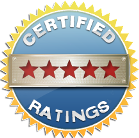
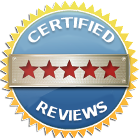
Minor updates

Changed region(s): [[0.1439, 0.087, 0.8345, 0.3478], [0.2014, 0.6957, 0.8058, 0.8986]]

diff --git a/css/style.css b/css/style.css
@@ -65,7 +65,6 @@ body {
     width: 100%;
     position: absolute;
     margin: 0;
-    z-index: 1;
     background: rgb(255, 255, 255) transparent;
     /* nice browsers */
     background: rgba(255, 255, 255, 0.8);
@@ -74,14 +73,39 @@ body {
     /* IE8 */
     -ms-filter: "progid:DXImageTransform.Microsoft.gradient(startColorstr=#CCFFFFFF, endColorstr=#CCFFFFFF)";
 }
+.navbar-collapse {
+    position: relative;
+}
+.navbar-icon {
+    position: absolute;
+    right: 24px;
+    top: 22px;
+    z-index: 4;
+}
 .navbar-nav {
     margin: 0 0 0;
+    position: absolute;
+    top: 58px;
+    right: 20px;
+    background: #FFF;
+    padding: 0 10px;
+    z-index: 3;
+    border: 1px solid #eee;
+    -moz-border-radius: 5px;
+    -webkit-border-radius: 5px;
+    border-radius: 5px; /* future proofing */
+    -khtml-border-radius: 5px; /* for old Konqueror browsers */
+    display: none;
 }
 .navbar-nav > li {
     text-align: center;
     width: 100%;
-    margin-bottom: 16px;
-    margin-top: 16px;
+    border-bottom: 1px solid #eee;
+    padding-bottom: 16px;
+    padding-top: 16px;
+}
+.navbar-nav > li:last-child{
+    border-bottom: none;
 }
 .navbar-nav > li > a {
     padding: 0;
@@ -196,12 +220,13 @@ body {
 
 .logo-container {
     background-color: #FFF;
-    padding: 10px 0px;
-    text-align: center;
+    padding: 10px 0px 10px 10px;
+    text-align: left;
 }
 
 .logo-container img{
-    width: 90%;
+    min-width: 122px;
+    width: 40%;
     max-width: 200px;
 }
 
@@ -268,14 +293,14 @@ body {
     background: #FFF;
 }
 .main.top {
-    margin-top: 195px;
+    margin-top: 10px;
     min-height: 100px;
 }
 .main.bottom {
-    margin-top: 195px;
+    margin-top: 10px;
 }
 .regular-main {
-    margin: 290px auto 0;
+    margin: 105px auto 0;
     padding: 15px;
     background: #FFF;
 }
@@ -366,7 +391,7 @@ body {
  */
 
 .full-main {
-    margin-top: 290px;
+    margin-top: 105px;
     padding: 20px;
     background: #FFF;
 }
@@ -589,7 +614,7 @@ body.promotion.video .vjs-control-bar{
     display: none;
 }
 .promotion .main{
-    margin-top: 300px;
+    margin-top: 120px;
     min-height: 470px;
     text-align: center;
     background: transparent;
@@ -740,6 +765,9 @@ body.promotion.video .vjs-control-bar{
 .promotion .reviews p{
     margin: 0;
 }
+.promotion .certified-reviews-container{
+    text-align: left;
+}
 
 /*
  * Place Request
@@ -869,6 +897,12 @@ body.place-request {
 
     .logo-container {
         padding: 20px 0px;
+        text-decoration: none;
+        text-align: center;
+    }
+
+    .logo-container img{
+        width: 80%;
     }
 
     .main.top {
@@ -907,9 +941,29 @@ body.place-request {
         padding: 0 0 20px 0;
     }
 
+    .navbar-icon {
+        display: none;
+    }
+
+    .navbar-nav {
+        position: relative;
+        background: none;
+        padding: 0;
+        top: 0;
+        right: 0;
+        border: none;
+        -moz-border-radius: 0;
+        -webkit-border-radius: 0;
+        border-radius: 0; /* future proofing */
+        -khtml-border-radius: 0; /* for old Konqueror browsers */
+        display: table !important;
+    }
+
     .navbar-nav > li {
         width: 181px;
-        padding-top: 20px;
+        padding: 20px 0 0 0;
+        border: none;
+        margin-bottom: 16px;
         margin-top: -1px;
     }
 

diff --git a/js/global.js b/js/global.js
@@ -1,5 +1,5 @@
 var herve = {
-    navigation : function () {
+    navigation: function () {
         var hover = false;
         $("body").delegate(".nav-sidebar li",{
             mouseenter: function(){
@@ -15,8 +15,13 @@ var herve = {
                 hover = false;
             }
         });
+        $("body").delegate(".navbar-icon",{
+            click: function(){
+                $('.navbar .navbar-nav').toggle();
+            }
+        });
     },
-    getNth : function (s, c, n) {
+    getNth: function (s, c, n) {
         var idx;
         var i = 0;
         var newS = '';

diff --git a/promotion.php b/promotion.php
@@ -43,7 +43,7 @@
                     <?php echo $pageController->printLogoContainer(); ?>
                 </div>
                 <div class="container main">
-                    <div class="curl">
+                    <div class="curl hidden-xs">
                         <div class="curl-content">
                             <h3>Unlimited time offer</h3>
                             <p>Get estimate from our contractors<br/> And enter to win our <b>10k</b> solar systems</p>
@@ -111,7 +111,10 @@
                                 </div>
                             </div>
                         </div>
-                        <div class="col-md-4 hidden-xs col-sm-4">
+                        <div class="col-md-4 col-xs-12 col-sm-4 certified-reviews-container">
+                            <h4>Certified Reviews</h4>
+                            <p>With so many companies providing online reviews, it becoming difficult to trust any of them, your friend can post a review or you enemy can a post review.</p>
+                            <p>We are going on step further, in order to get is review certified the contractor must provide a proof of the job completion (building permit, proof of payment, etc)</p>
                             <img alt="" src="<?php echo Config::$site_url.'images/home/stamp_final.png' ?>" />
                         </div>
                     </div>

diff --git a/class/page.class.php b/class/page.class.php
@@ -134,6 +134,9 @@ class Page{
     }
     public function printNavigation(){
         $return = '
+        <button type="button" class="btn btn-default dropdown-toggle visible-xs-block navbar-icon">
+            <span class="glyphicon glyphicon-align-justify"></span>
+        </button>
         <ul class="nav navbar-nav navbar-right">';
         foreach ($this->pages as $page) {
             if($page->navigation==1){
@@ -149,7 +152,7 @@ class Page{
             <div class="navbar navbar-default" role="navigation">
                 <div class="container-fluid">
                     <div class="navbar-collapse">
-                        <div class="nav-contact">
+                        <div class="nav-contact hidden-xs">
                             <h4 class="gold">Need immediate service</h4>
                             <h5>CALL US : <a href="tel:1-214-303-9771">1(214)303 9771</a></h5>
                         </div>';
